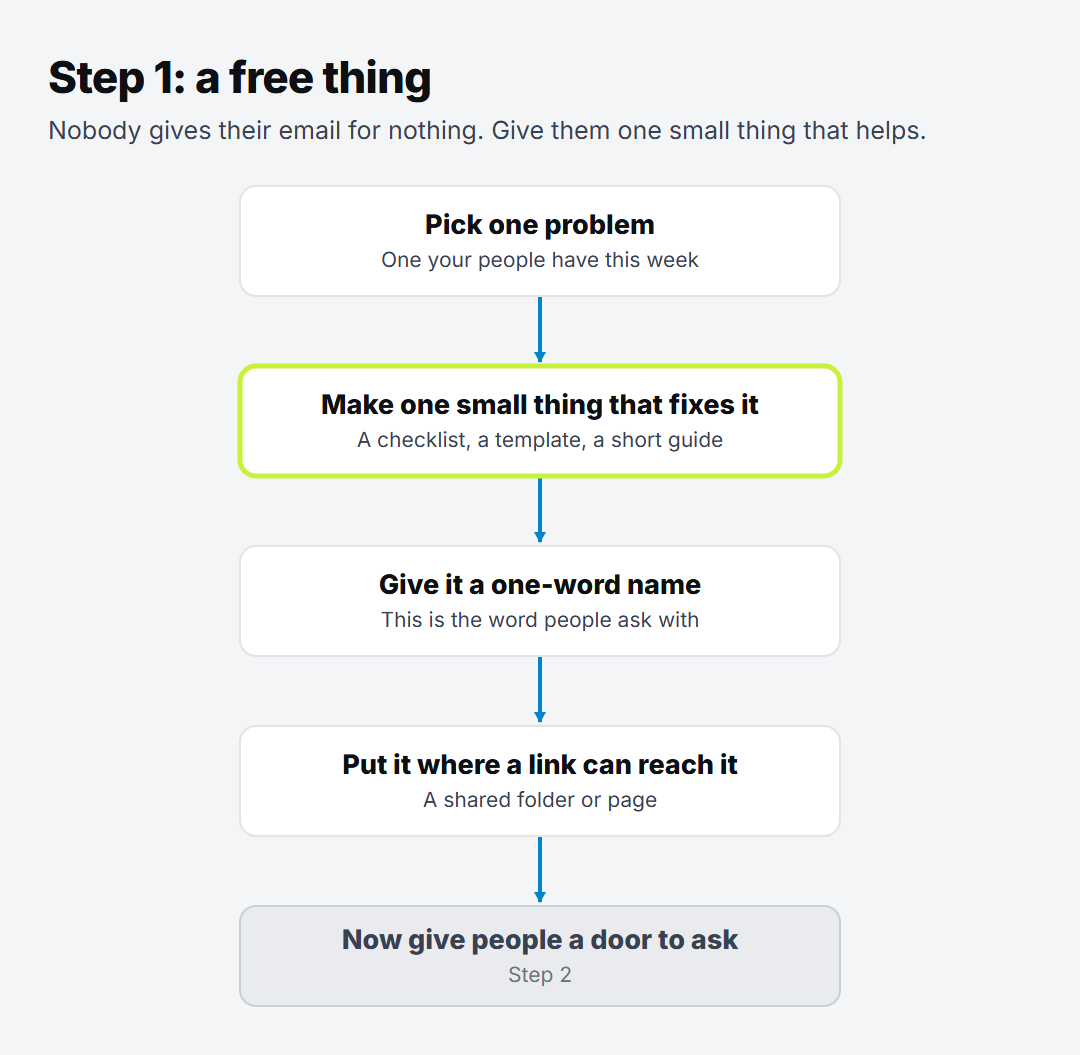
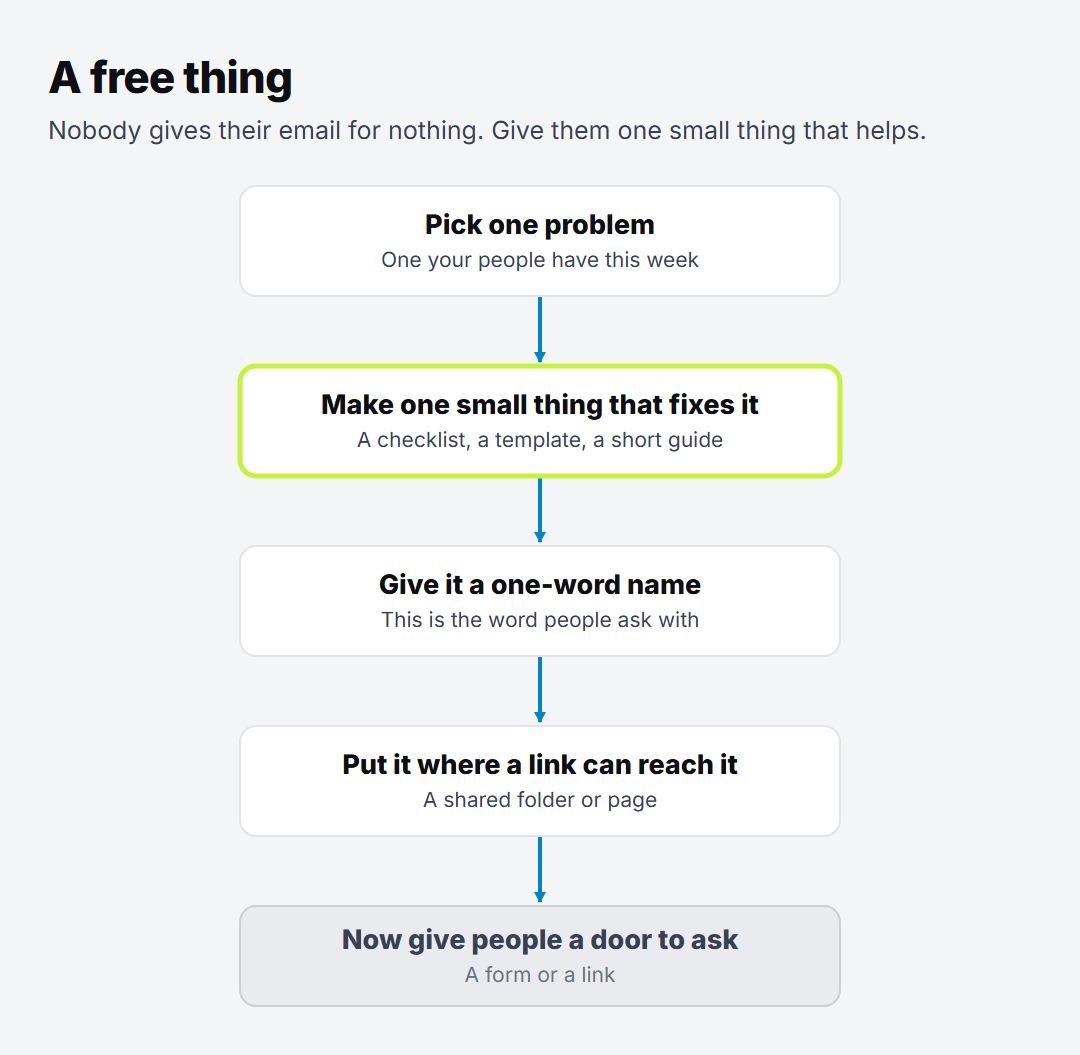
Draft: flow picture without the step number

Changed region(s): [[0.0306, 0.0607, 0.3972, 0.1213], [0.4278, 0.91, 0.5806, 0.9403]]

diff --git a/content/posts/lead-magnet-ideas-for-coaches.md b/content/posts/lead-magnet-ideas-for-coaches.md
@@ -62,7 +62,7 @@ Skip the list of 35 ideas. Look at your own messages instead.
 
 ## How to make it and share it
 
-![Step 1, a free thing: pick one problem your people have this week, make one small thing that fixes it, give it a one-word name, put it where a link can reach it, then give people a door to ask](/images/blog/lead-magnet-ideas-for-coaches/free-thing.png)
+![A free thing: pick one problem your people have this week, make one small thing that fixes it, give it a one-word name, put it where a link can reach it, then give people a door to ask, a form or a link](/images/blog/lead-magnet-ideas-for-coaches/free-thing.png)
 
 Write it in a Google Doc, in the words you'd use across a table. Save it as a PDF and put it in [Google Drive](https://www.google.com/drive/) with a link anyone can open.
 
